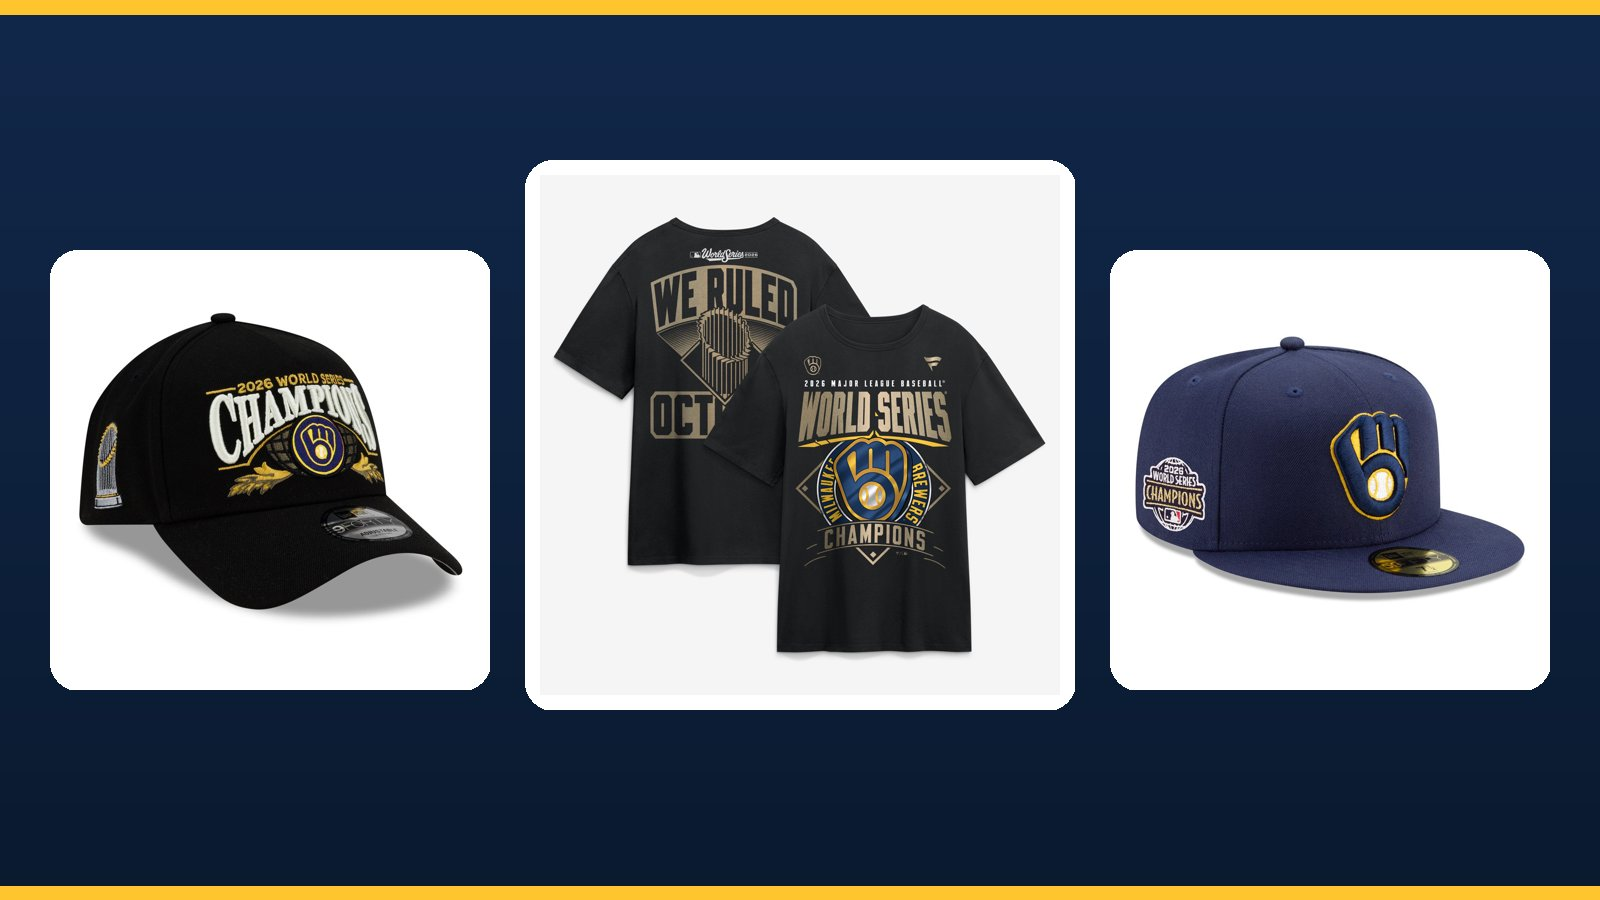
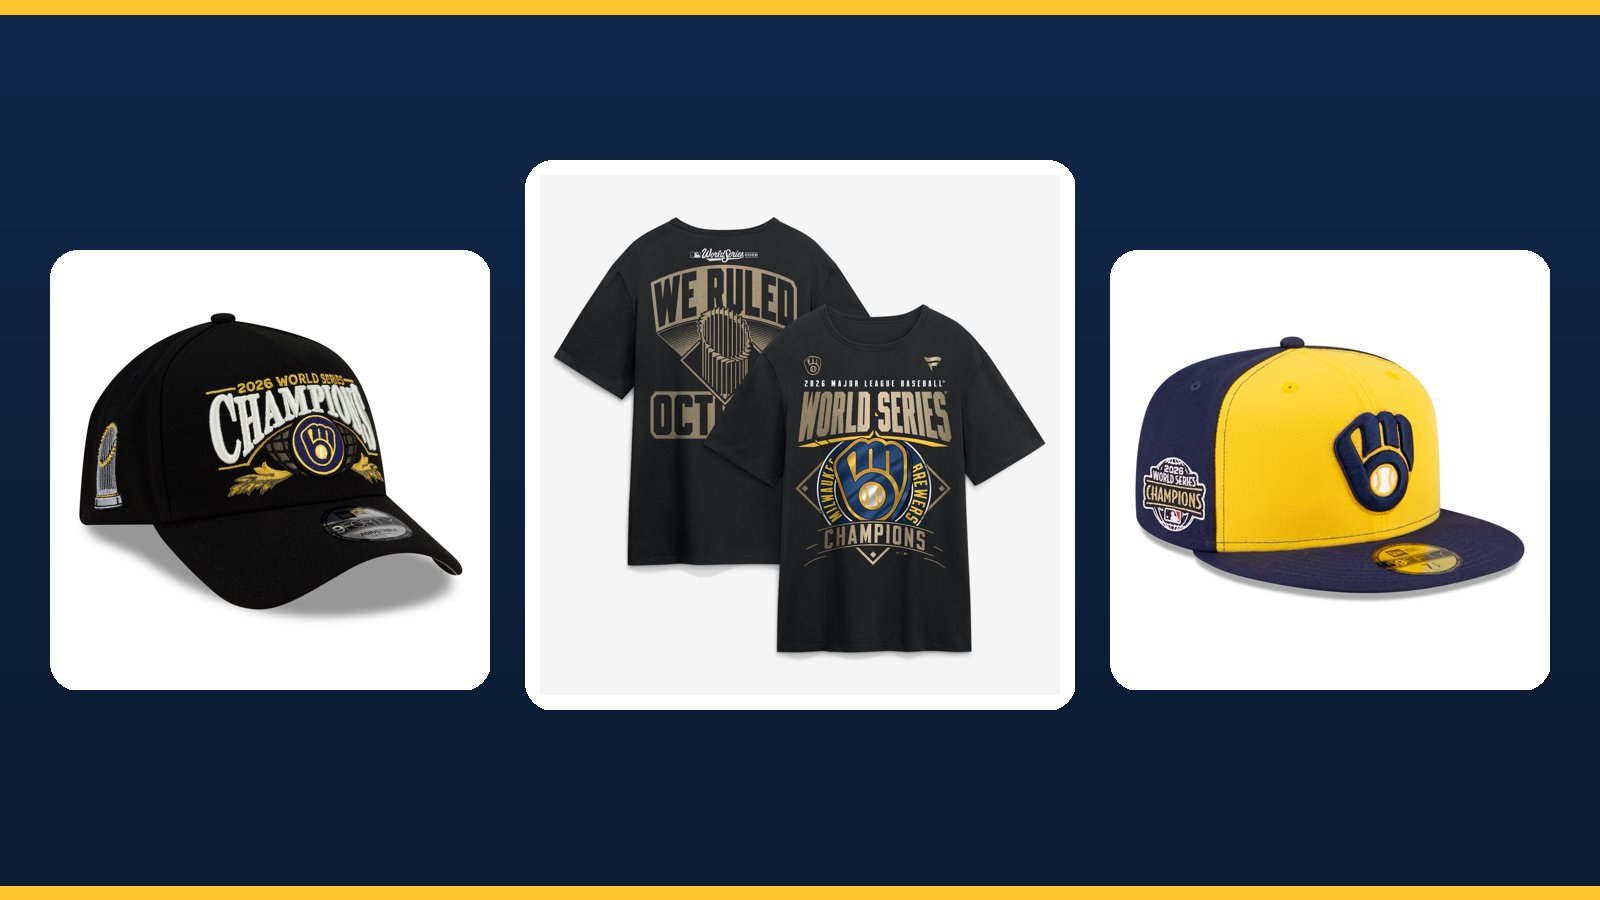
Brewers champions gear: cover and side patch cap swapped to the yellow-front 59FIFTY they wore all playoffs (Jake)

Changed region(s): [[0.7188, 0.3733, 0.9688, 0.6533]]

diff --git a/content/posts/brewers-2026-world-series-champions-gear-graded.md b/content/posts/brewers-2026-world-series-champions-gear-graded.md
@@ -69,13 +69,13 @@ Same verdict as the shirt: a bit boring, but I like it. It is bolder than the ch
 
 We did not grade these, since the players did not wear them in the celebration, but here is everything else in the official collection.
 
-### Brewers 2026 World Series Champions Side Patch 59FIFTY ($53)
+### Brewers 2026 World Series Champions Side Patch 59FIFTY (Yellow Front)
 
 <div style="margin: 2em 0; text-align: center;">
-  <img src="/images/posts/brewers-2026-world-series-champions-gear-graded/side-patch-59fifty.jpg" alt="New Era Milwaukee Brewers 2026 World Series Champions side patch 59FIFTY fitted cap in navy with the ball-in-glove logo on the front and a round 2026 World Series Champions patch on the side" style="max-width: 100%; border-radius: 12px;" />
+  <img src="/images/posts/brewers-2026-world-series-champions-gear-graded/side-patch-59fifty-yellow-front.jpg" alt="New Era Milwaukee Brewers 2026 World Series Champions side patch 59FIFTY fitted cap with a yellow front, navy crown and brim, the navy ball-in-glove logo and a round 2026 World Series Champions patch on the side" style="max-width: 100%; border-radius: 12px;" />
 </div>
 
-This is the cap for people who want to wear it in April. It is the Brewers' regular navy 59FIFTY with the ball-in-glove on the front, plus a round "2026 World Series Champions" patch on the side.
+This is the cap the Brewers wore on the field all October on the road, including the clincher: the two-tone ball-in-glove 59FIFTY with a yellow front panel, navy back and brim, and the navy ball-in-glove, plus a round "2026 World Series Champions" patch on the side. It is the cap for people who want to wear the title in April.
 
 ### Brewers 2026 World Series Champions Home Replica Jersey ($175)
 
@@ -119,7 +119,7 @@ The parade hat from New Era is a cream A-frame 9FIFTY with a gray brim. The ball
 
 ## Bottom Line
 
-The locker room hat and shirt get a B. The gold-on-black art is clean and the ball-in-glove leads, but black is not a Brewers color, and a title this long in the making deserved navy and gold. If you want something in actual Brewers colors, the cream champions jersey and the navy side patch 59FIFTY are the picks from the rest of the collection. For what Milwaukee wore on the field all October, see the [Brewers uniform schedule](/stories/brewers-uniform-schedule-2026), and for the gear from the pennant two weeks ago, our [NL Champions hat and shirt grades](/stories/brewers-2026-national-league-champions-hat-shirt-graded).
+The locker room hat and shirt get a B. The gold-on-black art is clean and the ball-in-glove leads, but black is not a Brewers color, and a title this long in the making deserved navy and gold. If you want something in actual Brewers colors, the cream champions jersey and the yellow-front side patch 59FIFTY are the picks from the rest of the collection. For what Milwaukee wore on the field all October, see the [Brewers uniform schedule](/stories/brewers-uniform-schedule-2026), and for the gear from the pennant two weeks ago, our [NL Champions hat and shirt grades](/stories/brewers-2026-national-league-champions-hat-shirt-graded).
 
 ## Frequently Asked Questions
 
